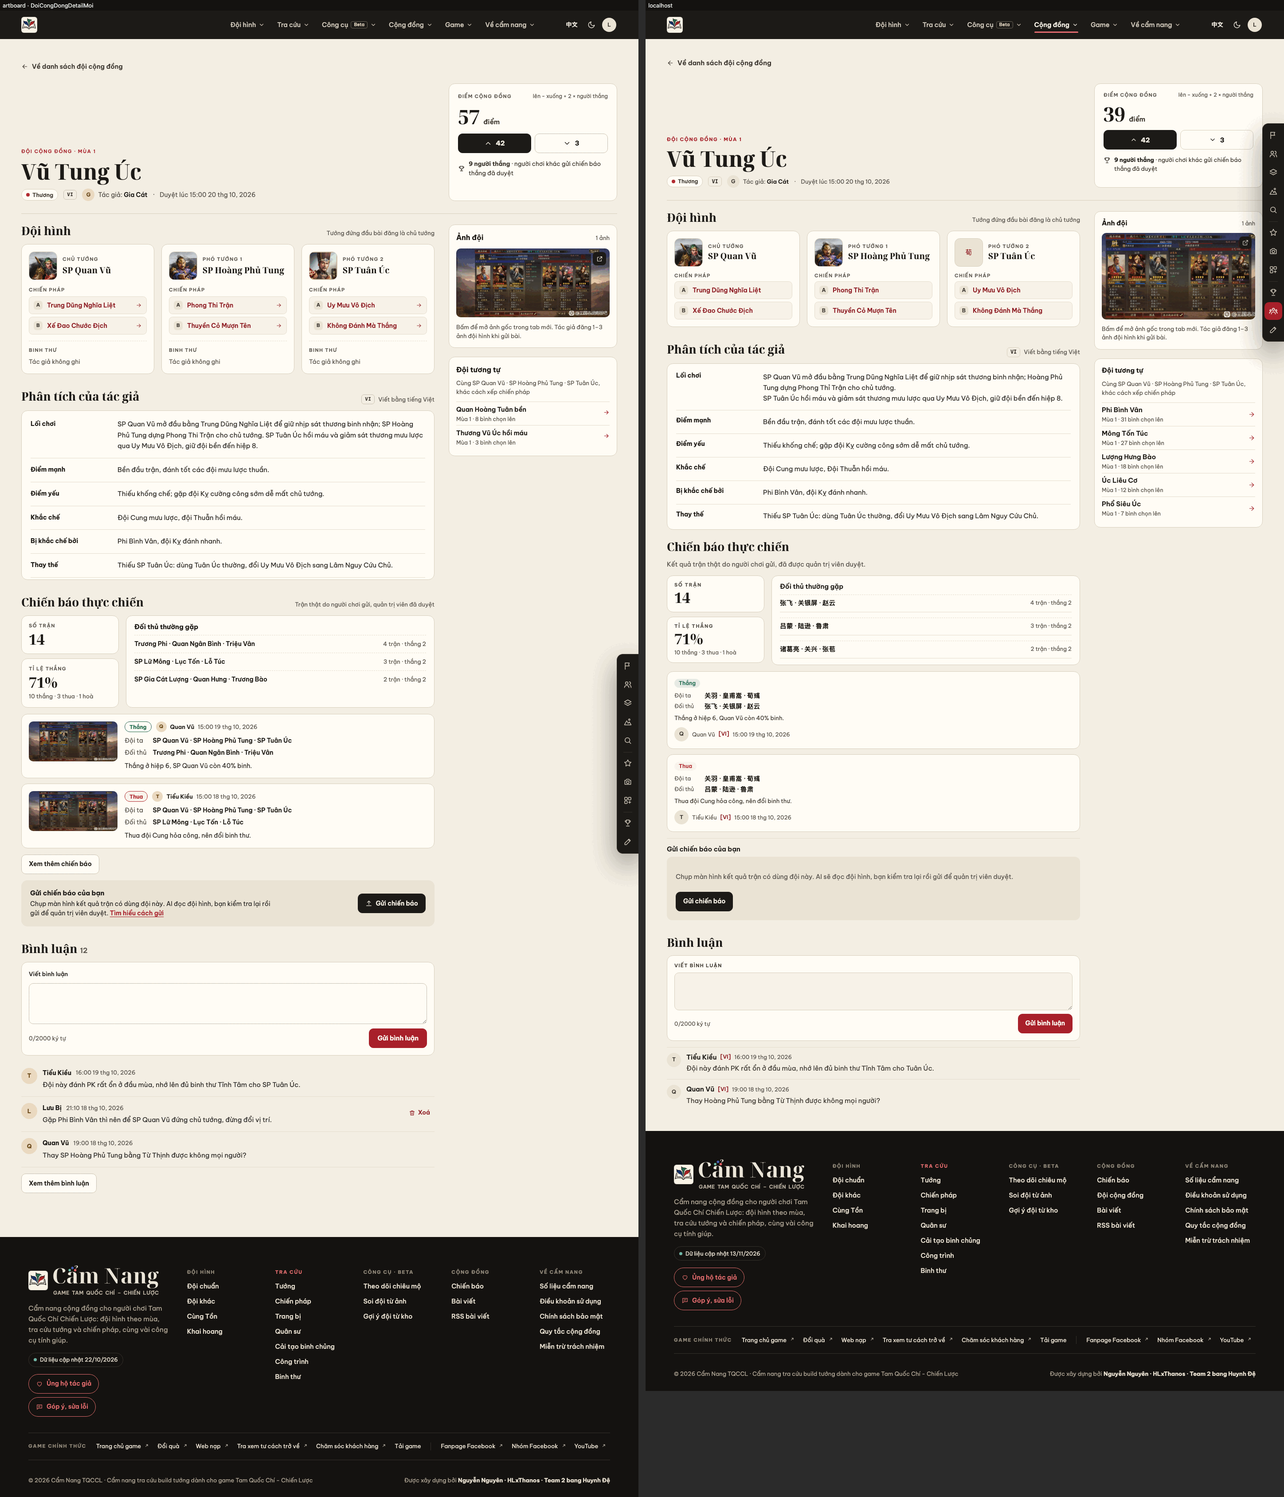
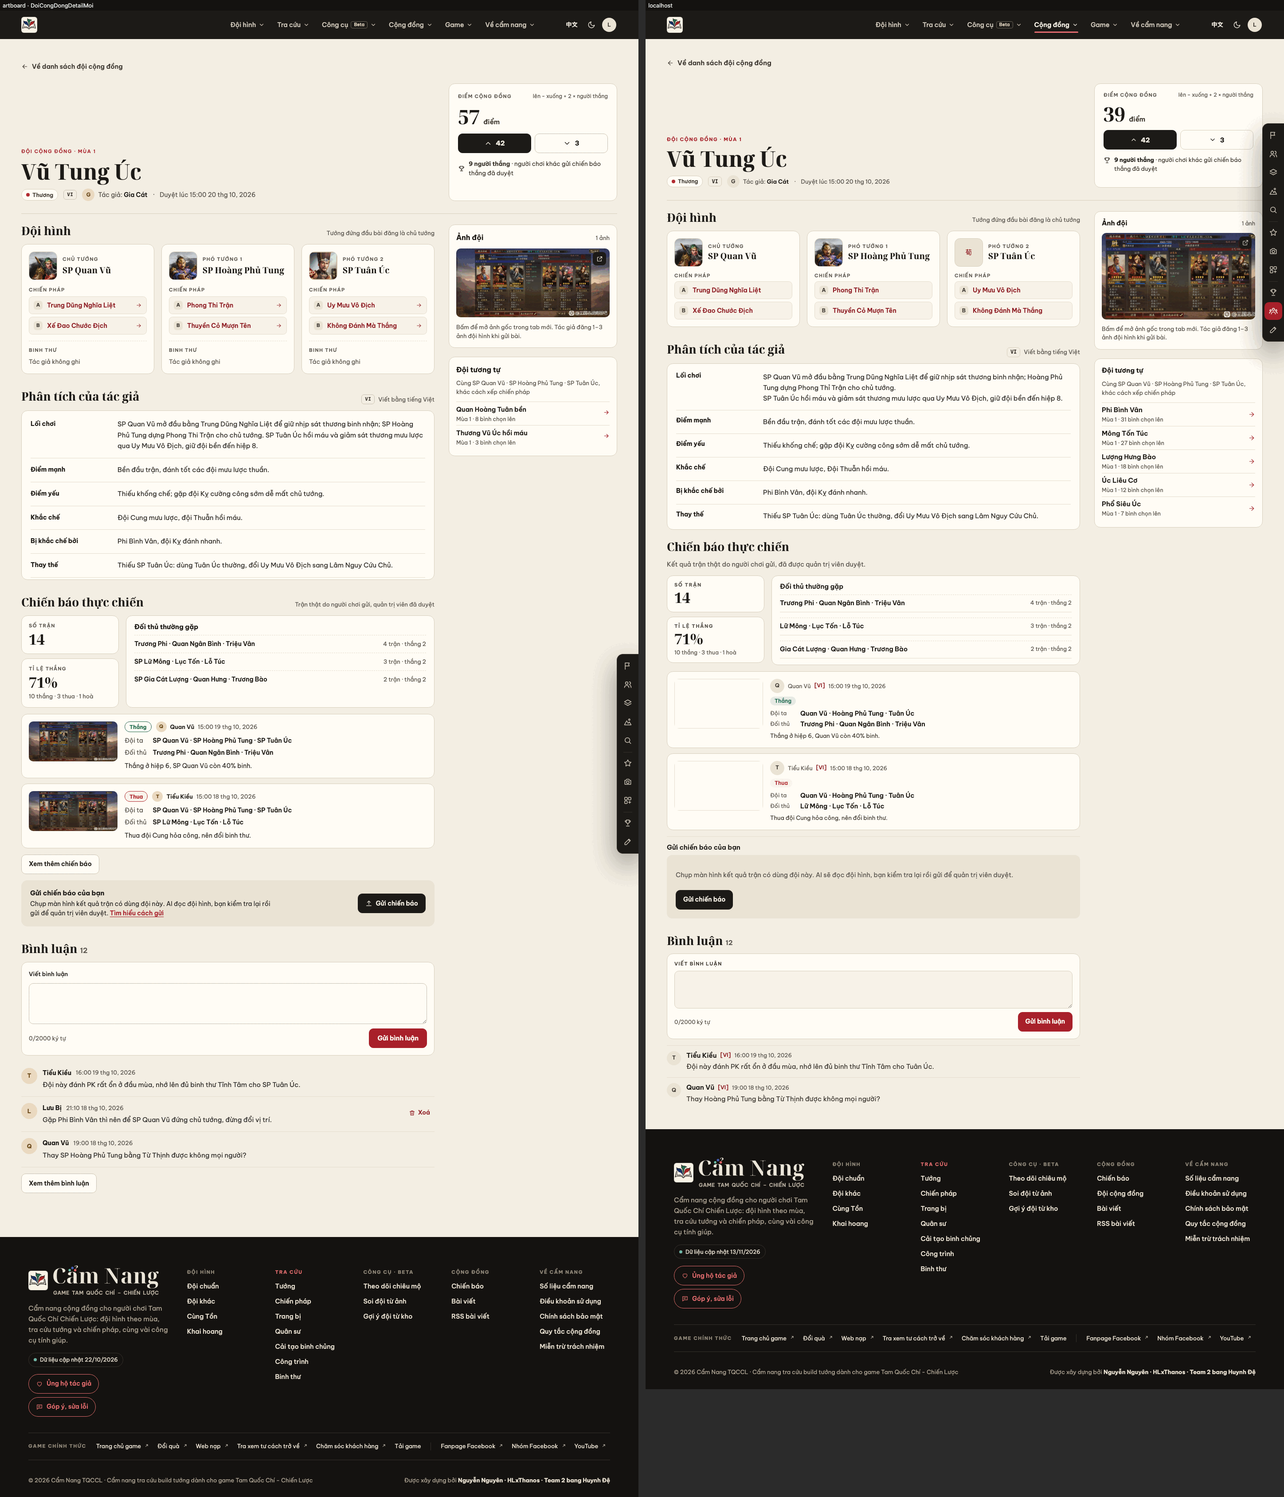
feat(doi-cong-dong): tên tướng chiến báo tiếng Việt và số bình luận trên trang đội
Theo artboard DoiCongDongDetailMoi (+ Mobile), #74:

- Chiến báo và "Đối thủ thường gặp" hiện tên tướng theo từ điển tướng có
  sẵn (classifyName trên chỉ mục heroes-dict): tên Việt ở bản vi, chữ Hán
  theo từ điển ở bản zh; tên không tra được giữ chữ gốc. Từ điển chỉ nạp
  khi có tên để hiện (trang đội không có chiến báo vẫn không tải).
- Tiêu đề "Bình luận" kèm số bình luận của đội (commentCount), cộng/trừ
  khi đăng/xoá trong trang.
- mountReports nhận heroNames, mountComments nhận count, reportSummary
  nhận nameOf; trang chi tiết Đội chuẩn, hub chiến báo và quản trị không
  truyền nên giữ như cũ.
- Thẻ chiến báo có ảnh xếp ảnh trái như artboard; ảnh ghép cập nhật.
- E2E: tên Việt / chữ gốc / bản zh trong chiến báo, số đếm bình luận khi
  xoá, không nạp từ điển khi không có chiến báo; E5 kiểm tên Việt và số
  bình luận tăng khi đăng.

diff --git a/js/community-reports.js b/js/community-reports.js
@@ -22,29 +22,36 @@ import {
 const RESULTS = ['win', 'loss', 'draw'];
 const NOTE_MAX_LENGTH = 500;
 
-function heroLine(names) {
+/** Tên hiển thị mặc định: giữ nguyên chữ đã lưu (chữ Hán AI đọc hoặc chữ người gửi gõ). */
+const keepName = (name) => name;
+
+/** Dòng tên tướng "A · B · C"; `nameOf` đổi từng tên sang tên hiển thị (trang đội: tên Việt theo từ điển). */
+function heroLine(names, nameOf = keepName) {
   const list = Array.isArray(names) ? names.filter((name) => typeof name === 'string' && name.trim()) : [];
-  return list.length ? list.join(' · ') : '—';
+  return list.length ? list.map((name) => nameOf(name.trim())).join(' · ') : '—';
 }
+
+/** Có tên tướng nào cần tra không (chiến báo / đối thủ thường gặp). */
+const hasNames = (groups) => groups.some((names) => Array.isArray(names) && names.some((name) => typeof name === 'string' && name.trim()));
 
 /**
  * Tóm tắt một chiến báo: kết quả, đội ta vs đối thủ, ghi chú. Dùng chung cho trang đội, hub và quản trị;
- * `caption` (quản trị) là dòng chú thích đặt cạnh nhãn kết quả.
+ * `caption` (quản trị) là dòng chú thích đặt cạnh nhãn kết quả; `nameOf` đổi tên tướng sang tên hiển thị.
  */
-export function reportSummary(report, { caption = null } = {}) {
+export function reportSummary(report, { caption = null, nameOf = keepName } = {}) {
   const result = RESULTS.includes(report?.result) ? report.result : null;
   const pill = el('span', { class: 'cm-result', dataset: { result: result || 'unknown' } }, resultLabel(result));
   return el('div', { class: 'cm-report-summary' }, [
     caption ? el('div', { class: 'cm-report-verdict' }, [pill, el('span', { class: 'cm-report-caption' }, caption)]) : pill,
     el('dl', { class: 'cm-report-sides' }, [
-      el('div', {}, [el('dt', {}, L('Đội ta', '我方')), el('dd', {}, heroLine(report?.allyHeroes))]),
-      el('div', {}, [el('dt', {}, L('Đối thủ', '对手')), el('dd', {}, heroLine(report?.enemyHeroes))]),
+      el('div', {}, [el('dt', {}, L('Đội ta', '我方')), el('dd', {}, heroLine(report?.allyHeroes, nameOf))]),
+      el('div', {}, [el('dt', {}, L('Đối thủ', '对手')), el('dd', {}, heroLine(report?.enemyHeroes, nameOf))]),
     ]),
     report?.note ? el('p', { class: 'cm-report-note' }, String(report.note)) : null,
   ]);
 }
 
-function statsPanel(stats) {
+function statsPanel(stats, nameOf = keepName) {
   const total = Number(stats?.total) || 0;
   if (!total) {
     return el('p', { class: 'scope-note cm-empty' }, L(
@@ -80,7 +87,7 @@ function statsPanel(stats) {
             const count = Number(opponent?.count) || 0;
             const opponentWins = Number(opponent?.wins) || 0;
             return el('li', { class: 'cm-opponent' }, [
-              el('span', { class: 'cm-opponent-heroes' }, heroLine(opponent?.heroes)),
+              el('span', { class: 'cm-opponent-heroes' }, heroLine(opponent?.heroes, nameOf)),
               el('span', { class: 'cm-opponent-count' }, L(
                 `${formatNumber(count)} trận · thắng ${formatNumber(opponentWins)}`,
                 `${formatNumber(count)} 场 · 胜 ${formatNumber(opponentWins)}`,
@@ -92,10 +99,10 @@ function statsPanel(stats) {
   ]);
 }
 
-function reportItem(report, { tagged = false } = {}) {
+function reportItem(report, { tagged = false, nameOf = keepName } = {}) {
   const imageUrl = typeof report.imageUrl === 'string' && report.imageUrl.startsWith('/api/') ? report.imageUrl : null;
   return el('li', { class: 'cm-report' }, [
-    reportSummary(report),
+    reportSummary(report, { nameOf }),
     imageUrl
       ? el('a', { class: 'cm-report-image-link', href: imageUrl, target: '_blank', rel: 'noopener' }, [
           el('img', { class: 'cm-report-image', src: imageUrl, alt: L('Ảnh kết quả trận', '战斗结果截图'), loading: 'lazy', decoding: 'async' }),
@@ -278,22 +285,30 @@ function submitFlow({ pageKey, lang }) {
  * Khối "Chiến báo thực chiến": số liệu + danh sách đã duyệt + luồng gửi.
  * `sharedPool` (đội cộng đồng): không lọc theo `lang`, mỗi chiến báo kèm nhãn `[VI]`/`[ZH]`.
  * `archived` (mùa đã đóng): thay luồng gửi bằng ghi chú lưu trữ.
+ * `heroNames` (tuỳ chọn): `() => Promise<(tên) => tên hiển thị>` — chỉ gọi khi có tên tướng để hiện; lỗi thì giữ tên gốc.
  */
-export function mountReports(container, { pageKey, lang, user, sharedPool = false, archived = false }) {
+export function mountReports(container, { pageKey, lang, user, sharedPool = false, archived = false, heroNames = null }) {
   const titleId = 'cm-reports-title';
   const statsBox = el('div', { class: 'cm-stats-box' });
   const list = el('ol', { class: 'cm-report-list', 'aria-label': L('Chiến báo đã duyệt', '已审核战报') });
   const status = liveStatus();
   const moreButton = el('button', { class: 'ana-btn cm-more', type: 'button', hidden: '' }, L('Xem thêm chiến báo', '查看更多战报'));
   let cursor = null;
+  let namer = null;
+  /** Bộ đổi tên tướng (nạp một lần, chỉ khi có tên để hiện). */
+  const nameOfFor = async (groups) => {
+    if (!heroNames || !hasNames(groups)) return keepName;
+    namer ??= Promise.resolve().then(heroNames).then((fn) => (typeof fn === 'function' ? fn : keepName), () => keepName);
+    return namer;
+  };
 
   const loadList = async () => {
     const params = new URLSearchParams({ page: pageKey, lang });
     if (cursor) params.set('cursor', cursor);
     const body = await api(`/api/reports?${params}`);
-    for (const report of Array.isArray(body?.items) ? body.items : []) {
-      if (sharedPool || report?.lang === lang) list.append(reportItem(report, { tagged: sharedPool }));
-    }
+    const items = (Array.isArray(body?.items) ? body.items : []).filter((report) => sharedPool || report?.lang === lang);
+    const nameOf = await nameOfFor(items.flatMap((report) => [report?.allyHeroes, report?.enemyHeroes]));
+    for (const report of items) list.append(reportItem(report, { tagged: sharedPool, nameOf }));
     list.hidden = list.childElementCount === 0;
     cursor = typeof body?.nextCursor === 'string' && body.nextCursor ? body.nextCursor : null;
     moreButton.hidden = !cursor;
@@ -301,7 +316,8 @@ export function mountReports(container, { pageKey, lang, user, sharedPool = fals
 
   const load = async () => {
     const [stats] = await Promise.all([api(`/api/reports/stats?${new URLSearchParams({ page: pageKey })}`), loadList()]);
-    statsBox.replaceChildren(statsPanel(stats));
+    const opponents = Array.isArray(stats?.topOpponents) ? stats.topOpponents : [];
+    statsBox.replaceChildren(statsPanel(stats, await nameOfFor(opponents.map((opponent) => opponent?.heroes))));
   };
 
   moreButton.addEventListener('click', async () => {

diff --git a/js/community-comments.js b/js/community-comments.js
@@ -1,7 +1,7 @@
 // Bình luận dưới trang chi tiết đội. Chỉ hiện bình luận cùng `lang` với trang (vi/zh không trộn).
 // Nội dung người dùng luôn là text node (`el`), không bao giờ qua innerHTML.
 
-import { L } from './i18n.js';
+import { L, formatNumber } from './i18n.js';
 import { el } from './render.js';
 import {
   COMMENT_MAX_LENGTH,
@@ -39,15 +39,28 @@ function commentItem(comment, { onDelete, tagged = false }) {
  * Khối bình luận. `user` null → mời đăng nhập thay cho ô nhập.
  * `sharedPool` (đội cộng đồng, kho chung vi/zh): không lọc theo `lang`, mỗi bình luận kèm nhãn `[VI]`/`[ZH]`;
  * bài mới vẫn gửi `lang` của trang.
+ * `count` (tuỳ chọn, số bình luận đang hiện công khai — đội cộng đồng lấy `commentCount` của đội): hiện cạnh tiêu đề
+ * "Bình luận 12" và cộng/trừ theo lượt đăng/xoá trong trang.
  * Trả về element section để trang gắn vào.
  */
-export function mountComments(container, { pageKey, lang, user, sharedPool = false }) {
+export function mountComments(container, { pageKey, lang, user, sharedPool = false, count = null }) {
   const titleId = 'cm-comments-title';
   const list = el('ol', { class: 'cm-comment-list', 'aria-labelledby': titleId });
   const empty = el('p', { class: 'scope-note cm-empty' }, L('Chưa có bình luận nào. Hãy là người đầu tiên!', '还没有评论，来发表第一条吧！'));
   const status = liveStatus();
   const moreButton = el('button', { class: 'ana-btn cm-more', type: 'button', hidden: '' }, L('Xem thêm bình luận', '查看更多评论'));
   let cursor = null;
+  let total = Number.isFinite(Number(count)) && count !== null ? Math.max(0, Number(count)) : null;
+  const countNode = total === null ? null : el('span', { class: 'cm-title-count' });
+  const paintCount = () => {
+    if (countNode) countNode.textContent = formatNumber(total);
+  };
+  const bump = (delta) => {
+    if (total === null) return;
+    total = Math.max(0, total + delta);
+    paintCount();
+  };
+  paintCount();
 
   const refreshEmpty = () => {
     empty.hidden = list.childElementCount > 0;
@@ -60,6 +73,7 @@ export function mountComments(container, { pageKey, lang, user, sharedPool = fal
       await api(`/api/comments/${encodeURIComponent(comment.id)}`, { method: 'DELETE' });
       const next = item.nextElementSibling || item.previousElementSibling;
       item.remove();
+      bump(-1);
       refreshEmpty();
       status.set(L('Đã xoá bình luận.', '评论已删除。'));
       (next?.querySelector('button, a') || textarea || moreButton).focus?.();
@@ -146,6 +160,7 @@ export function mountComments(container, { pageKey, lang, user, sharedPool = fal
         const created = await api('/api/comments', { method: 'POST', json: { page: pageKey, lang, body } });
         const comment = { ...created, lang: created?.lang || lang, author: created?.author || user, canDelete: created?.canDelete ?? true };
         list.prepend(commentItem(comment, { onDelete, tagged: sharedPool }));
+        bump(1);
         refreshEmpty();
         textarea.value = '';
         updateCounter();
@@ -162,7 +177,7 @@ export function mountComments(container, { pageKey, lang, user, sharedPool = fal
   }
 
   const section = el('section', { class: 'cm-block cm-comments', 'aria-labelledby': titleId }, [
-    el('h2', { id: titleId, class: 'cm-title' }, L('Bình luận', '评论')),
+    el('h2', { id: titleId, class: 'cm-title' }, countNode ? [L('Bình luận', '评论'), ' ', countNode] : L('Bình luận', '评论')),
     composer,
     status,
     list,

diff --git a/css/styles.css b/css/styles.css
@@ -16032,7 +16032,14 @@ a.cm-team-tactic-link:hover { border-color: var(--accent-line); background-color
 .cm-team-detail-page .cm-stat-value { font: var(--type-cm-stat); }
 .cm-team-detail-page .cm-opponents { display: grid; gap: var(--space-8); padding: var(--space-14) var(--space-18); border: var(--border-hair) solid var(--line); border-radius: var(--radius-14); background-color: var(--panel); }
 .cm-team-detail-page .cm-opponent { min-height: var(--control-40); border-top: var(--border-hair) dashed var(--line-2); }
-.cm-team-detail-page .cm-report { padding: var(--space-16); border: var(--border-hair) solid var(--line); border-radius: var(--radius-14); background-color: var(--panel); }
+/* Thẻ chiến báo: ảnh trái (khi có), bên phải dòng kết quả + người gửi, hai đội, ghi chú. */
+.cm-team-detail-page .cm-report { display: grid; grid-template-columns: minmax(0, 1fr); gap: var(--space-8); padding: var(--space-16); border: var(--border-hair) solid var(--line); border-radius: var(--radius-14); background-color: var(--panel); }
+.cm-team-detail-page .cm-report:has(.cm-report-image-link) { grid-template-columns: var(--size-col-200) minmax(0, 1fr); column-gap: var(--space-16); }
+.cm-team-detail-page .cm-report-image-link { grid-column: 1; grid-row: 1 / span 2; align-self: start; overflow: hidden; border-radius: var(--radius-10); }
+.cm-team-detail-page .cm-report-image { display: block; width: 100%; max-height: none; aspect-ratio: 16 / 9; border-radius: 0; object-fit: cover; }
+.cm-team-detail-page .cm-report > .cm-report-meta { grid-column: -2; grid-row: 1; margin: 0; }
+.cm-team-detail-page .cm-report > .cm-report-summary { grid-column: -2; grid-row: 2; }
+.cm-team-detail-page .cm-title-count { color: var(--muted); font: var(--type-strong); }
 .cm-team-detail-page .cm-report-flow { padding: var(--space-20); border-radius: var(--radius-12); background-color: var(--panel-2); }
 .cm-team-detail-page .cm-comment-form { padding: var(--space-16); border: var(--border-hair) solid var(--line); border-radius: var(--radius-14); background-color: var(--panel); }
 .cm-team-detail-page .cm-comment-form .ana-btn.primary { border-color: var(--accent); background-color: var(--accent); color: var(--on-accent); }
@@ -16416,6 +16423,10 @@ a.cm-team-tactic-link:hover { border-color: var(--accent-line); background-color
   .cm-team-analysis-item { grid-template-columns: minmax(0, 1fr); gap: var(--space-6); }
   .cm-team-detail-page .cm-stats { grid-template-columns: minmax(0, 1fr); }
   .cm-team-detail-page .cm-stat-grid { grid-template-columns: 1fr 1fr; }
+  .cm-team-detail-page .cm-report:has(.cm-report-image-link) { grid-template-columns: minmax(0, 1fr); }
+  .cm-team-detail-page .cm-report-image-link { grid-row: 3; }
+  .cm-team-detail-page .cm-report > .cm-report-meta,
+  .cm-team-detail-page .cm-report > .cm-report-summary { grid-column: 1; }
   /* Mobile: "Ảnh đội" là một khối như các khối khác, không đóng thẻ. */
   .cm-team-photos { padding: 0; border: 0; background-color: transparent; }
   .cm-team-photos .cm-team-aside-title { font: var(--type-cm-section-title); }

diff --git a/js/community-teams.js b/js/community-teams.js
@@ -10,7 +10,7 @@ import { api, describeError, liveStatus, loadSession, signInPrompt, unavailableN
 import { mountComments } from './community-comments.js';
 import { mountReports } from './community-reports.js';
 import { listTeamCard, mineTally, mineTeamCard, statusBadge } from './community-team-cards.js';
-import { createTeamLexicon, datalistOptions, loadTeamBooks, loadTeamDictionaries, seasonLabel, tacticName } from './community-team-data.js';
+import { createTeamLexicon, datalistOptions, heroNameResolver, loadTeamBooks, loadTeamDictionaries, seasonLabel, tacticName } from './community-team-data.js';
 import { detailLayout, similarCard } from './community-team-detail.js';
 import { mountTeamForm } from './community-team-form.js';
 import { mergePage, modeFromSearch, staticTeamPath } from './community-team-state.js';
@@ -536,8 +536,10 @@ export function initCommunityTeams(mount = document.getElementById('community-te
       after.append(widgets);
       const pageKey = `/doi-cong-dong/${team.id}/`;
       try {
-        const reports = mountReports(widgets, { pageKey, lang: locale, user, sharedPool: true, archived: !team.seasonOpen });
-        const comments = mountComments(widgets, { pageKey, lang: locale, user, sharedPool: true });
+        // Tên tướng chiến báo theo từ điển (tên Việt / chữ Hán theo trang); từ điển chỉ nạp khi có chiến báo để hiện.
+        const heroNames = () => getLexicon().then(heroNameResolver);
+        const reports = mountReports(widgets, { pageKey, lang: locale, user, sharedPool: true, archived: !team.seasonOpen, heroNames });
+        const comments = mountComments(widgets, { pageKey, lang: locale, user, sharedPool: true, count: team.commentCount });
         await Promise.all([reports.load(), comments.load()]);
       } catch {
         widgets.replaceChildren(unavailableNotice());

diff --git a/js/community-team-data.js b/js/community-team-data.js
@@ -1,7 +1,7 @@
 // Dữ liệu tên cho trang Đội cộng đồng: nạp từ điển tướng/chiến pháp (đã xác minh sha256 qua manifest Tra cứu),
 // nhãn theo locale, chỉ mục id và datalist. Server chỉ lưu id nên mọi tên hiển thị đi qua đây.
 
-import { createEntityIndex } from './analyze-map.js';
+import { classifyName, createEntityIndex } from './analyze-map.js';
 import { L, currentLocale } from './i18n.js';
 import { heroPortrait } from './hero-portrait.js';
 import { createLookupPayloadLoader } from './lookup-data.js';
@@ -119,6 +119,24 @@ export function heroBadge(lexicon, id) {
       : null,
     el('span', { class: 'cm-team-hero-name' }, lexicon ? lexicon.heroName(id) : String(id)),
   ]);
+}
+
+/**
+ * Đổi tên tướng đã lưu dạng chữ (chiến báo: chữ Hán AI đọc hoặc chữ người gửi gõ) sang tên hiển thị theo locale
+ * bằng chỉ mục từ điển có sẵn (`classifyName`: khớp chữ Hán/bí danh rồi so gần đúng). Chỉ đổi khi khớp chắc;
+ * tên không tra được giữ nguyên chữ gốc.
+ */
+export function heroNameResolver(lexicon) {
+  const cache = new Map();
+  return (raw) => {
+    const text = String(raw ?? '').trim();
+    if (!text || !lexicon) return text;
+    if (!cache.has(text)) {
+      const cell = classifyName(text, lexicon.indexes.heroes);
+      cache.set(text, cell.state === 'sure' ? lexicon.heroName(cell.id) : text);
+    }
+    return cache.get(text);
+  };
 }
 
 /** Tên chiến pháp theo locale; `lexicon` null → id thô. */

diff --git a/docs/project-changelog.md b/docs/project-changelog.md
@@ -12,6 +12,7 @@
 - Changed: `/doi-cong-dong/` (và `/zh/`) dựng theo 10 artboard `DoiCongDongMoi`, `…DetailMoi`, `…NewMoi`, `…MineMoi`, `BanNoticeMoi` (+ Mobile). Đầu trang chung (nhãn mùa, một h1 "Đội cộng đồng", lời dẫn, nút "Đội của tôi"/"Đăng đội" hoặc tab); danh sách có thanh lọc (ô Mùa, sắp xếp Hot/Mới/Top dạng nhóm nút `aria-pressed` thay select, ô lọc tướng gập trên mobile) và lưới thẻ ảnh (thẻ không ảnh có trạng thái "Chưa có ảnh đội"); trang đội (tĩnh và `?id=`) hai cột: tên đội là h1 + bảng "Điểm cộng đồng", Đội hình (thẻ tướng, chiến pháp A/B dẫn sang Tra cứu), Phân tích, chiến báo + bình luận, cột Ảnh đội + Đội tương tự; chế độ `?id=` ẩn đầu trang danh sách để chỉ còn một h1.
 - Changed: form đăng đội ba bước (ảnh 1–3 đọc AI từng ảnh, khối tình trạng 9 ô kiểu Soi đội + nút nhảy tới ô cần chọn, thông tin đội) và cột "Gửi để duyệt" có danh sách kiểm tra; binh chủng chọn bằng chip radio (component `chip-chon-mot`) thay `<select id="cm-team-troop">`, giá trị gửi đi giữ mã API.
 - Changed: xoá đội (trang đội của chủ đội và "Đội của tôi") hỏi lại bằng hộp xác nhận trong trang `confirmInPage` thay `window.confirm`; lỗi xoá hiện trong hộp. "Đội của tôi" có thẻ ngang theo trạng thái, bảng "Tình trạng" và các bước duyệt.
+- Changed: khối chiến báo trên trang đội hiện tên tướng (chiến báo, đối thủ thường gặp) theo từ điển — tên Việt ở bản vi, chữ Hán ở bản zh, tên không tra được giữ chữ gốc; từ điển chỉ nạp khi có chiến báo để hiện. Tiêu đề "Bình luận" kèm số bình luận của đội, cộng/trừ khi đăng/xoá. `mountReports({ heroNames })`, `mountComments({ count })`, `heroNameResolver` trong `community-team-data.js`; trang khác dùng hai component không truyền thì giữ như cũ.
 - Changed: thông báo đăng nhập bị chặn có dòng đậm "Tài khoản đã bị khoá đến <ngày giờ>." / "… vĩnh viễn." (từ `until` của `/api/ban-notice`), lý do, gợi ý, link Quy tắc cộng đồng, nút đóng cùng hàng.
 - Added: token `type.cm-card-title`/`cm-section-title`/`cm-stat`, `size.cm-*` (cột phải, ô ảnh, ô Mùa, hộp thông báo…), component `dau-trang-doi-cong-dong`, `the-doi-cong-dong`, `chi-tiet-doi-cong-dong`, `form-dang-doi`, `the-doi-cua-toi-cong-dong`, `thong-bao-khoa`; JS tách `community-team-ui.js`, `community-team-cards.js`, `community-team-detail.js`, `community-team-form-parts.js`; model trang đội thêm `tacticPaths`, `heroPortraits`. E2E mới `tests-e2e/community-teams-redesign.spec.mjs`.
 - Không vẽ dòng "Binh thư: Tác giả không ghi" của artboard: đội cộng đồng không lưu binh thư. Câu hỏi thường gặp (nguồn FAQPage JSON-LD) giữ trong khối gập cuối cột trái.
